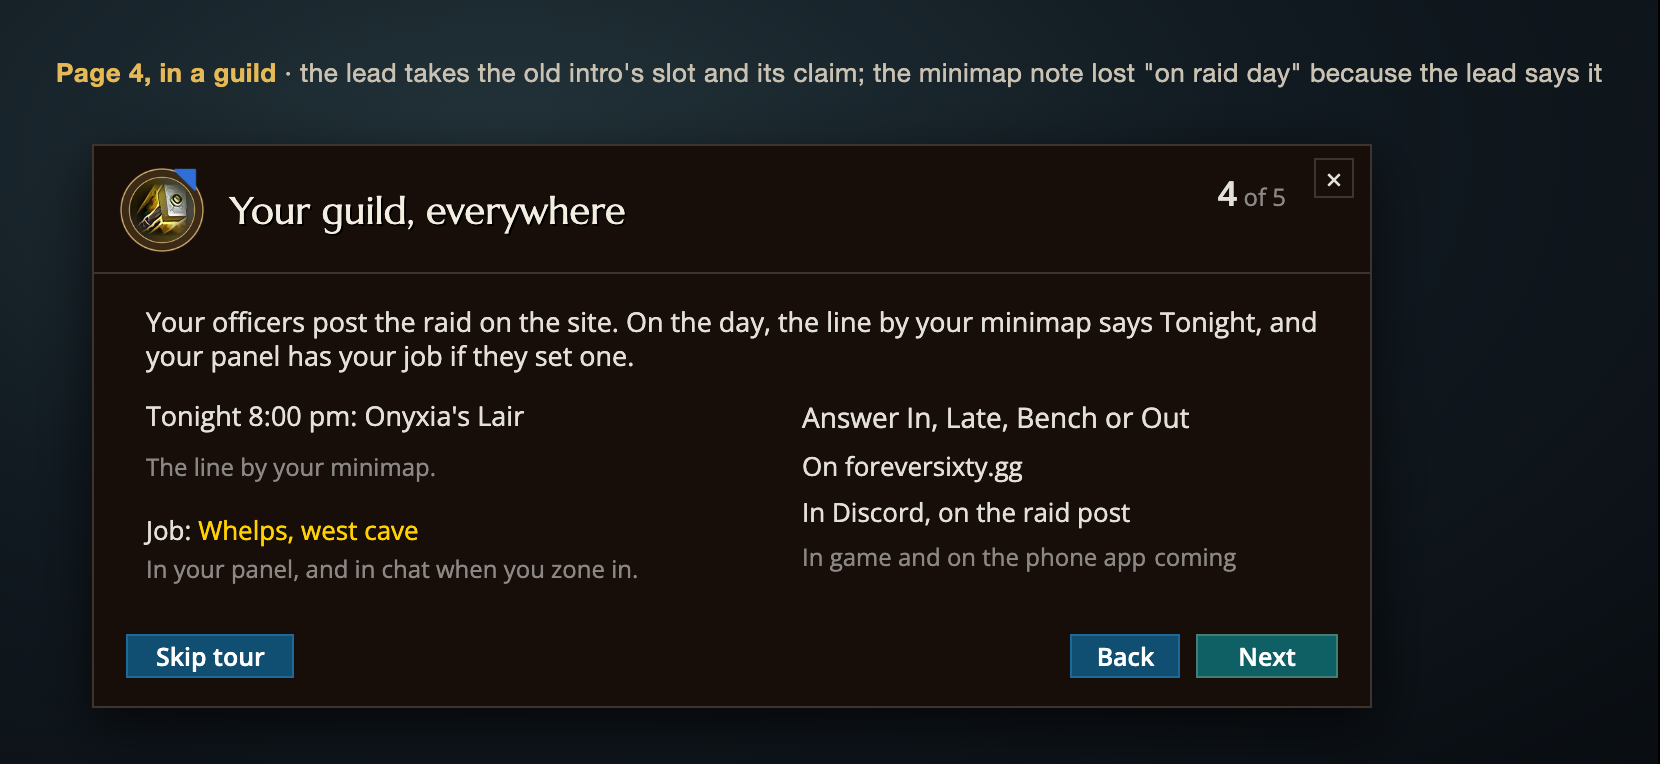
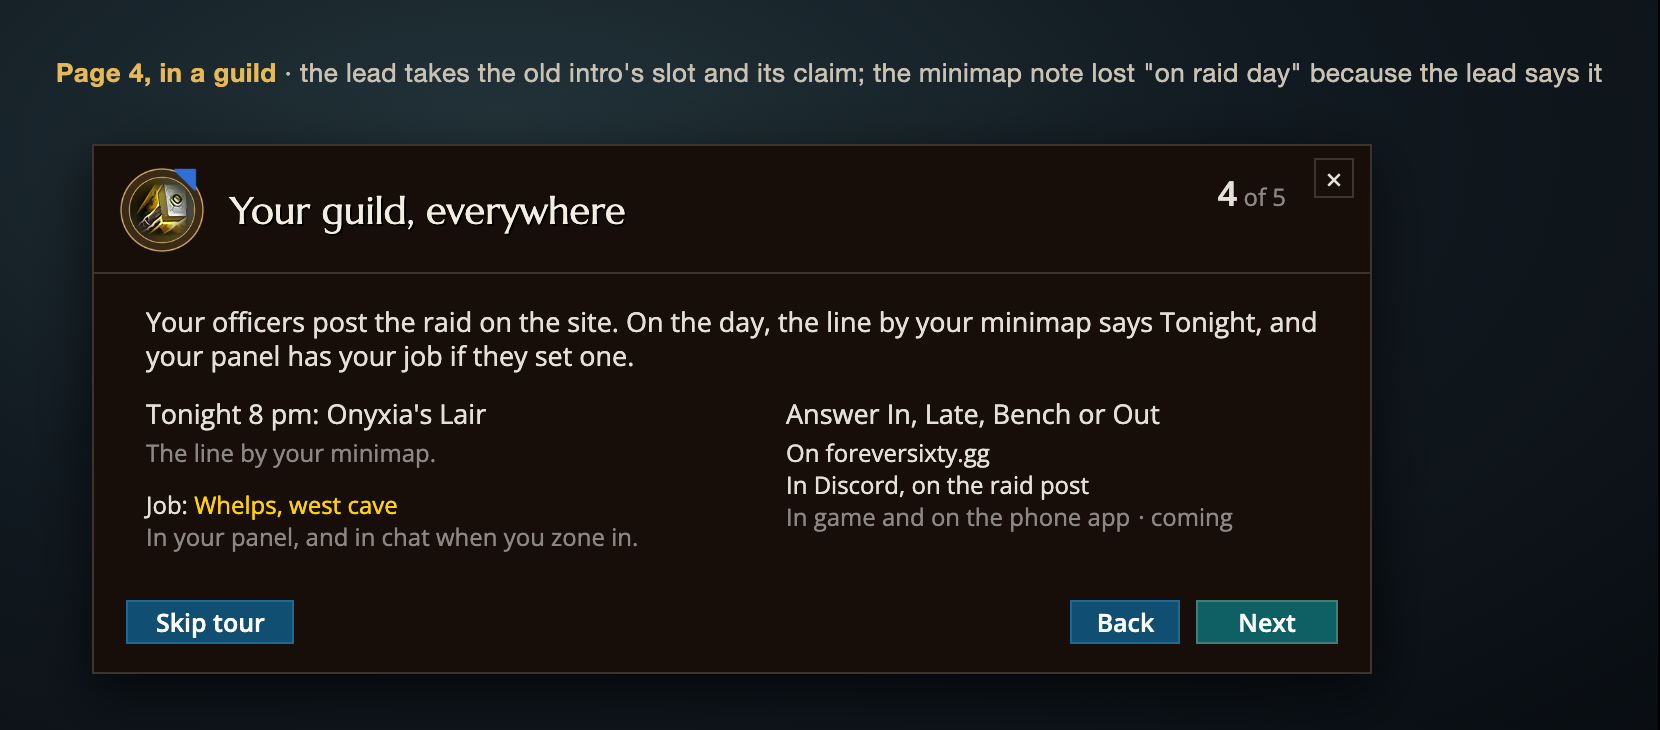
fix(addon): tour page 4 reads the site's clock, parts the coming tag, aligns its columns
Compat.clockText prints the site's 12-hour clock (8 pm, 6:20 pm) with no leading zero, replayed
against apps/shared/formats.json. L.tourComing carries a dot so it no longer reads as the line's
own word. The tour mock's page 4 places every line where drawGuild does, both columns from one top.

Claude-Session: https://claude.ai/code/session_01Wrtayzxz2jvhjren4pWihn

diff --git a/design/mocks/addon_tour.py b/design/mocks/addon_tour.py
@@ -22,8 +22,8 @@ from addon_ux import (ADDON, C, CSS, OB_H, OB_W, PAGES, RING, NOTCH, TITLE_FONT,
                       icon_uri, qr_block, url_box, page, tga_uri)
 
 ROOT = Path(__file__).resolve().parents[2]
-# Onboarding.lua coming(): the plain word, muted (round 3), 6 px after the line.
-COMING = f'<span style="font-size:12px;color:{U["muted"]};margin-left:4px">coming</span>'
+# Onboarding.lua coming(): L.tourComing ("· coming"), muted (round 3), 4 px after the line.
+COMING_GAP = 4
 OUT = Path(os.environ['MOCK_OUT']) if os.environ.get('MOCK_OUT') else ROOT / 'design/reviews/2026-11-11-addon-tour'
 LOCALE = (ROOT / 'addon/ForeverSixty/Locale.lua').read_text()
 DATA = (ROOT / 'addon/ForeverSixty/Data.lua').read_text()
@@ -262,17 +262,28 @@ def board_onboarding_3():
 
 
 def board_onboarding_4():
-    chip_line = (f'<div style="font-size:13.5px;color:{U["ink"]}">'
-                 f'{locale("chipTonight") % ("8:00 pm", locale("tourGuildRaid"))}</div>')
-    content = (f'<div style="display:flex;gap:28px;align-items:flex-start">'
-               f'<div style="width:300px">{chip_line}<div style="font-size:12px;color:{U["muted"]};margin:8px 0 14px">'
-               f'{locale("tourGuildChipNote")}</div>'
-               f'<div style="font-size:13px">{locale("panelJob") % ("<span style=\"color:" + C["gold"] + "\">" + locale("tourGuildJob") + "</span>")}'
-               f'</div><div style="font-size:12px;color:{U["muted"]};margin-top:2px">{locale("tourGuildJobNote")}</div></div>'
-               f'<div><div style="color:{U["ink"]};font-size:14px;margin-bottom:6px">{locale("tourAnswer")}</div>'
-               f'{ux.answer_place(locale("tourAnswerSite"), True)}{ux.answer_place(locale("tourAnswerDiscord"), True)}'
-               f'<div style="font-size:12px;color:{U["muted"]};margin:2px 0 0">{locale("tourAnswerLater")}{COMING}</div>'
-               f'</div></div>')
+    """Onboarding.lua drawGuild(), placed as it places them: two columns from the same top, the left
+    at 0, the right at 320; "normal" text 13.5 px, the rest "small" 12 px; the chip's clock as
+    Compat.clockText prints 20:00 on a 12-hour client (the site's "8 pm")."""
+    normal, small = 'font-size:13.5px;line-height:16px', 'font-size:12px;line-height:15px'
+
+    def at(x, y, style, color, body):
+        return (f'<div style="position:absolute;left:{x}px;top:{y}px;white-space:nowrap;{style};'
+                f'color:{color}">{body}</div>')
+
+    clock = locale('timeTwelveHour') % (8, locale('timePm'))
+    job = locale('panelJob') % f'<span style="color:{C["gold"]}">{locale("tourGuildJob")}</span>'
+    coming = f'<span style="margin-left:{COMING_GAP}px">{locale("tourComing")}</span>'
+    content = (f'<div style="position:relative;height:{62 + 15}px">'
+               + at(0, 0, normal, U['ink'], locale('chipTonight') % (clock, locale('tourGuildRaid')))
+               + at(0, 20, small, U['muted'], locale('tourGuildChipNote'))
+               + at(0, 46, small, U['ink'], job)
+               + at(0, 62, small, U['muted'], locale('tourGuildJobNote'))
+               + at(320, 0, normal, U['ink'], locale('tourAnswer'))
+               + at(320, 20, small, U['ink'], locale('tourAnswerSite'))
+               + at(320, 36, small, U['ink'], locale('tourAnswerDiscord'))
+               + at(320, 52, small, U['muted'], locale('tourAnswerLater') + coming)
+               + '</div>')
     return board('<b>Page 4, in a guild</b> · the lead takes the old intro\'s slot and its claim; the minimap note '
                  'lost "on raid day" because the lead says it',
                  tour(4, locale('tourGuildHeading'), content, 'tourGuildLead'))
